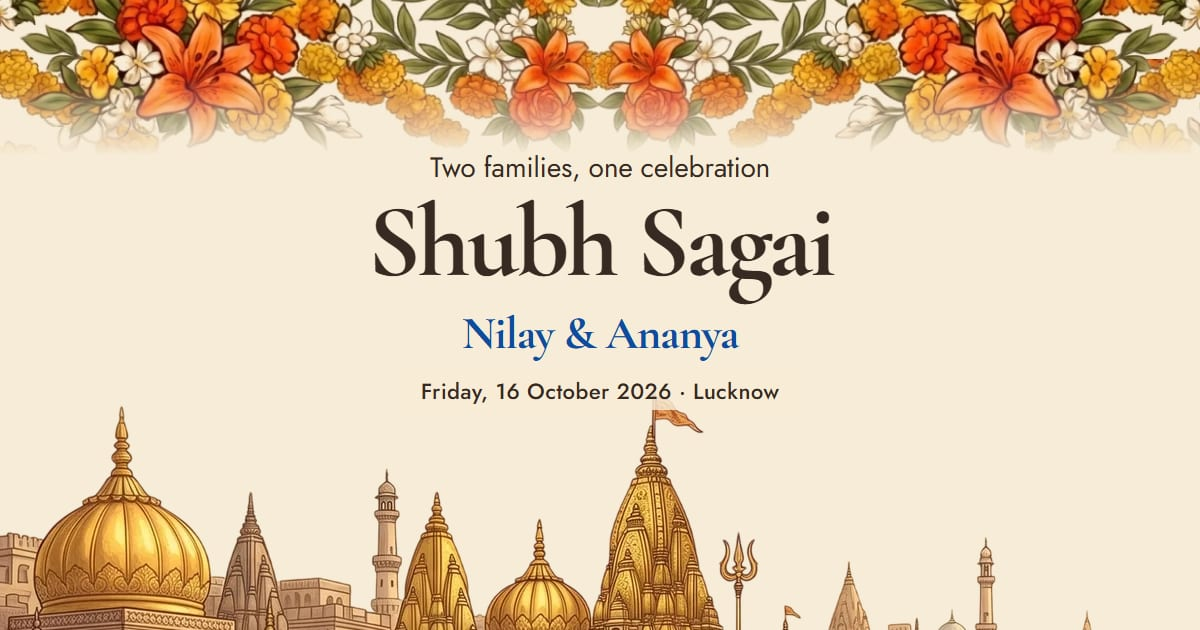
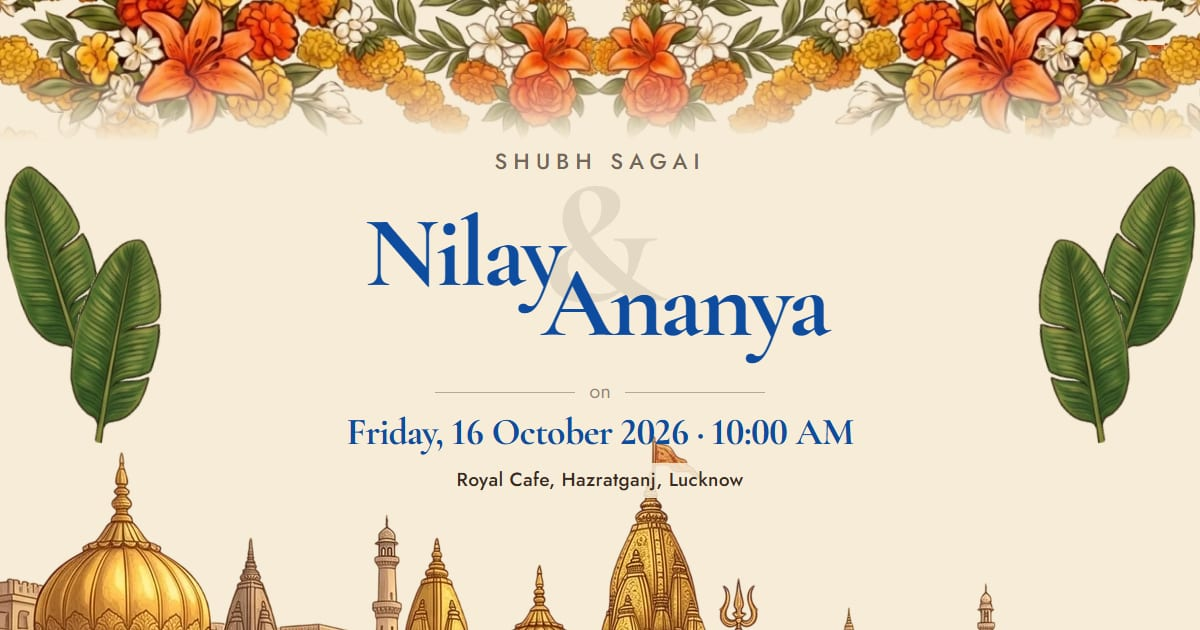
Preview image: the date page's Nilay & Ananya lockup
New og-image.jpg with the names lockup (faint ampersand), garland, banana
leaves, "on" divider, date, time and venue over the ghat temples. Image URL
versioned (?v=2) and preview text now includes the time and venue.

diff --git a/index.html b/index.html
@@ -14,18 +14,18 @@
   <meta property="og:type" content="website">
   <meta property="og:site_name" content="Shubh Sagai">
   <meta property="og:title" content="Shubh Sagai · Nilay &amp; Ananya">
-  <meta property="og:description" content="Friday, 16 October 2026 · Lucknow. You are cordially invited to the engagement ceremony of Nilay &amp; Ananya.">
+  <meta property="og:description" content="Friday, 16 October 2026 · 10:00 AM · Royal Cafe, Lucknow. You are cordially invited to the engagement ceremony of Nilay &amp; Ananya.">
   <meta property="og:url" content="https://nilayshukla.github.io/Engagement-Invite/">
-  <meta property="og:image" content="https://nilayshukla.github.io/Engagement-Invite/og-image.jpg">
-  <meta property="og:image:secure_url" content="https://nilayshukla.github.io/Engagement-Invite/og-image.jpg">
+  <meta property="og:image" content="https://nilayshukla.github.io/Engagement-Invite/og-image.jpg?v=2">
+  <meta property="og:image:secure_url" content="https://nilayshukla.github.io/Engagement-Invite/og-image.jpg?v=2">
   <meta property="og:image:type" content="image/jpeg">
   <meta property="og:image:width" content="1200">
   <meta property="og:image:height" content="630">
-  <meta property="og:image:alt" content="Shubh Sagai — Nilay &amp; Ananya, Friday 16 October 2026, Lucknow">
+  <meta property="og:image:alt" content="Shubh Sagai — Nilay &amp; Ananya, Friday 16 October 2026, 10:00 AM, Royal Cafe, Lucknow">
   <meta name="twitter:card" content="summary_large_image">
   <meta name="twitter:title" content="Shubh Sagai · Nilay &amp; Ananya">
-  <meta name="twitter:description" content="Friday, 16 October 2026 · Lucknow">
-  <meta name="twitter:image" content="https://nilayshukla.github.io/Engagement-Invite/og-image.jpg">
+  <meta name="twitter:description" content="Friday, 16 October 2026 · 10:00 AM · Royal Cafe, Lucknow">
+  <meta name="twitter:image" content="https://nilayshukla.github.io/Engagement-Invite/og-image.jpg?v=2">
 
   <!-- Icons -->
   <link rel="icon" href="favicon.svg" type="image/svg+xml">
